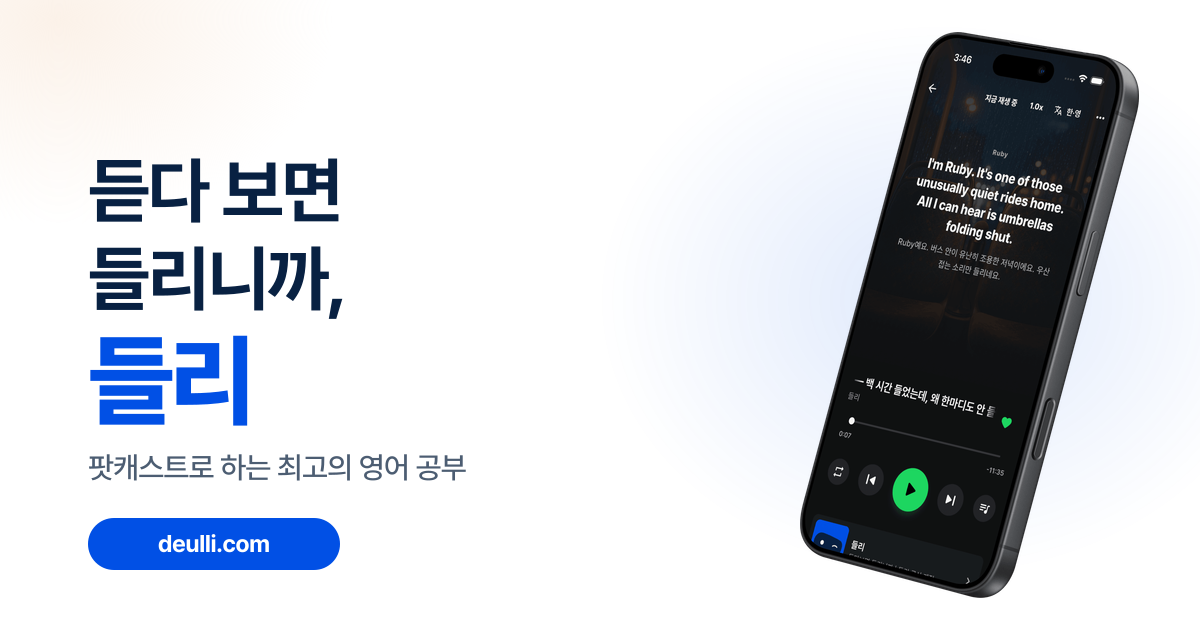
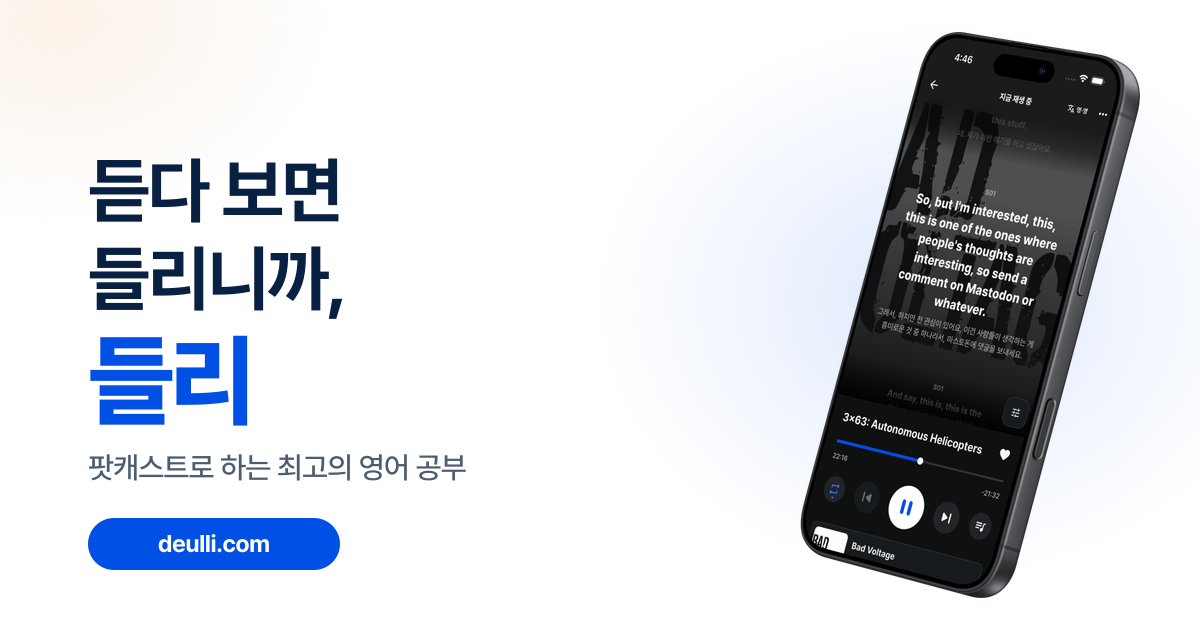
feat: refresh iPhone mockup and OG image from Figma

Changed region(s): [[0.7092, 0.0905, 0.9558, 0.573], [0.6783, 0.573, 0.8942, 0.8746], [0.6783, 0.8143, 0.74, 0.9048]]

diff --git a/README.md b/README.md
@@ -37,21 +37,25 @@ pnpm og           # public/og-image.png 재생성
 [deulli Figma 파일](https://www.figma.com/design/kZeAdHPAC8JeBHAGE2D6p9/deulli)에서 가져왔다.
 **여기서 새로 지어내지 않는다.** 바꿔야 하면 Figma를 먼저 고치고 이쪽에 반영한다.
 
-| 이 저장소                         | Figma 원본                                  |
-| --------------------------------- | ------------------------------------------- |
-| `styles/global.css`의 `@theme`    | Deulli Color System / v1 (`89:2`)           |
-| 서체·타입 스케일                  | Deulli Design System · Typography (`103:2`) |
-| 슬로건 "듣다 보면 들리니까, 들리" | FINAL 1 · 슬로건 + 재생화면 목업 (`213:2`)  |
-| 아이보리 + 네이비 + 블루 조합     | Feature Graphic · v2 안들리면들리 (`291:3`) |
-| `assets/mascot.png`               | deulli-mascot-hq-v5 (`170:3`)               |
-| `assets/app-player.png`           | app-01-player (`204:5`)                     |
+| 이 저장소                         | Figma 원본                                            |
+| --------------------------------- | ----------------------------------------------------- |
+| `styles/global.css`의 `@theme`    | Deulli Color System / v1 (`89:2`)                     |
+| 서체·타입 스케일                  | Deulli Design System · Typography (`103:2`)           |
+| 슬로건 "듣다 보면 들리니까, 들리" | FINAL 1 · 슬로건 + 재생화면 목업 (`213:2`)            |
+| 아이보리 + 네이비 + 블루 조합     | Feature Graphic · v2 안들리면들리 (`291:3`)           |
+| `assets/mascot.png`               | deulli-mascot-hq-v5 (`170:3`)                         |
+| `assets/hero-mockup.png`          | Perspective iPhone 17 Mockup · Semi Right (`2391:52`) |
 
 ### 목업을 받을 때 — export 말고 rawImages
 
-`319:66`은 프레임이 아니라 **채움이 둘 겹친 사각형 노드**다 — `#f5f5f5` 배경 채움 위에
-목업 이미지 채움. 그래서 MCP의 **export URL로 받으면 배경 채움까지 함께 그려져** 회색 판이
-붙은 PNG가 나온다(모서리 픽셀 `245,245,245,255`). `defaultFormat`을 png로 지정해도 같다 —
-투명하게 받을 방법은 응답의 **`rawImages` URL**뿐이고, 받은 뒤 `trim()` 한다
+현재 목업은 [Figma `2391:52`](https://www.figma.com/design/kZeAdHPAC8JeBHAGE2D6p9/deulli?node-id=2391-52)의
+**Perspective iPhone 17 Mockup (Semi Right)**다. `download_assets` 응답의 **`rawImages` URL**로
+받은 2458×4096 투명 PNG 원본을 수정 없이 저장한다. 웹에서는 `astro:assets`가 화면 크기에
+맞는 WebP를 생성하므로 원본 PNG 전체를 브라우저에 보내지 않는다.
+
+노드의 **export URL은 배경 채움까지 함께 그릴 수 있다.** 예전 `319:66` 목업은
+`#f5f5f5` 배경 채움이 겹쳐 있어 export에 회색 판이 붙었고, 새 노드의 Figma 렌더에도
+밝은 배경이 보인다. 페이지에는 배경이 투명한 원본 이미지 채움만 사용한다
 (모서리 `0,0,0,0`).
 
 목업이 흰 면에서 네모난 회색 판을 달고 있으면 두 가지를 순서대로 의심한다:
@@ -94,7 +98,7 @@ src/
     prelaunch.ts              사전신청 카피         (전환 시 삭제)
   assets/
     mascot.png                마스코트 — astro:assets가 webp로 최적화
-    hero-mockup.png           재생화면이 담긴 iPhone 목업 (배경 투명)
+    hero-mockup.png           Figma 2391:52의 iPhone 17 목업 (배경 투명)
     mascot.png                마스코트 — 1단 화면에서 슬로건 오른쪽에만 세운다
   styles/global.css           디자인 토큰 2계층 + base/components 레이어
 public/
